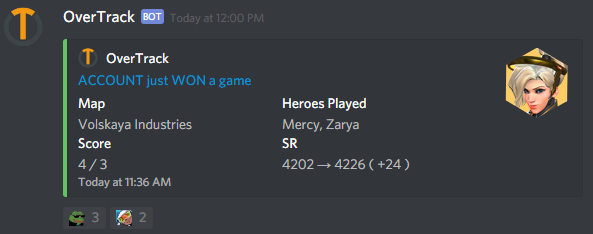
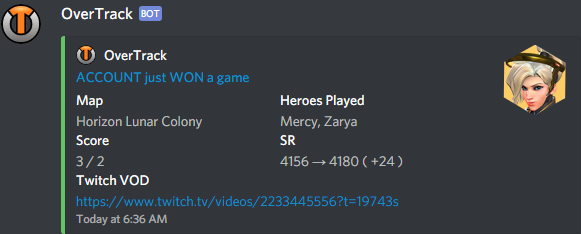
Update discord example and publish integrations panel

diff --git a/src/games-list/integrations/integrations.component.html b/src/games-list/integrations/integrations.component.html
@@ -2,9 +2,7 @@
     id="integrations-button"
     type="button" 
     class="btn btn-primary" 
-    (click)="showIntegrations()" 
-    style="display: none;"
->
+    (click)="showIntegrations()">
     <span class="glyphicon glyphicon-globe"></span>&nbsp; Integrations
 </button>
 
@@ -78,7 +76,8 @@
                         </div>
                         <div *ngIf="!webhooks">
                             <p style="margin: 6px;">
-                                Post matches to a discord channel. Create <a href="https://support.discordapp.com/hc/en-us/articles/228383668-Intro-to-Webhooks">Discord Webhook</a> for the channel and enter it above.<br/>
+                                Post matches to a discord channel. Create <a href="https://support.discordapp.com/hc/en-us/articles/228383668-Intro-to-Webhooks">Discord Webhook</a> for the channel and enter it above.
+                                Get the icon <a href="/assets/images/streamer/Overtrack_256px_active.png">here</a>. Twitch account mist be linked for the Twitch VOD link to be included.<br/>
                                 <br/>
                                 Example:
                             </p>

diff --git a/src/games-list/share-links/share-links.component.ts b/src/games-list/share-links/share-links.component.ts
@@ -15,8 +15,7 @@ export class ShareLinksComponent implements OnInit {
 
     @Input() accounts: Array<string>;
 
-    private shareKeysURL = 'https://api.overtrack.gg/share_keys'
-    private gamesURL = 'https://overtrack.gg/games/';
+    private shareKeysURL = 'https://api.overtrack.gg/share_keys';
 
     shareKeys: Array<ShareLink> = [];
     defaultLinks = 0;
